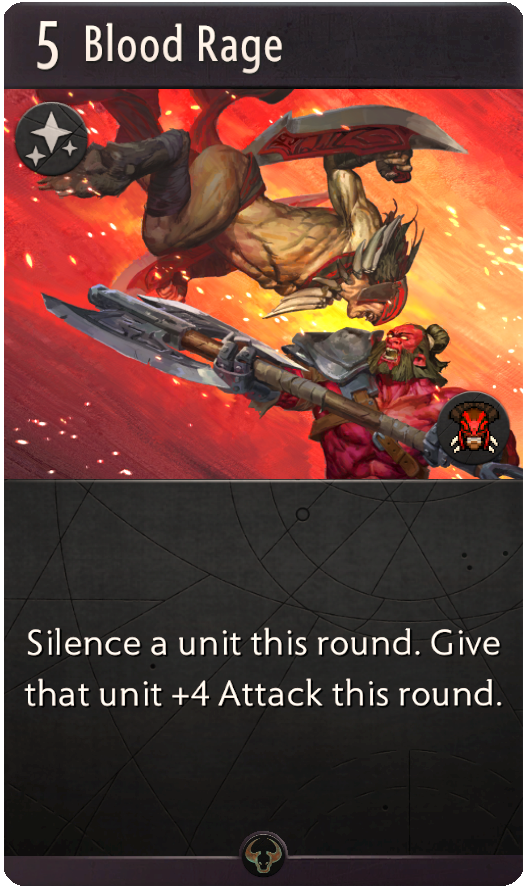
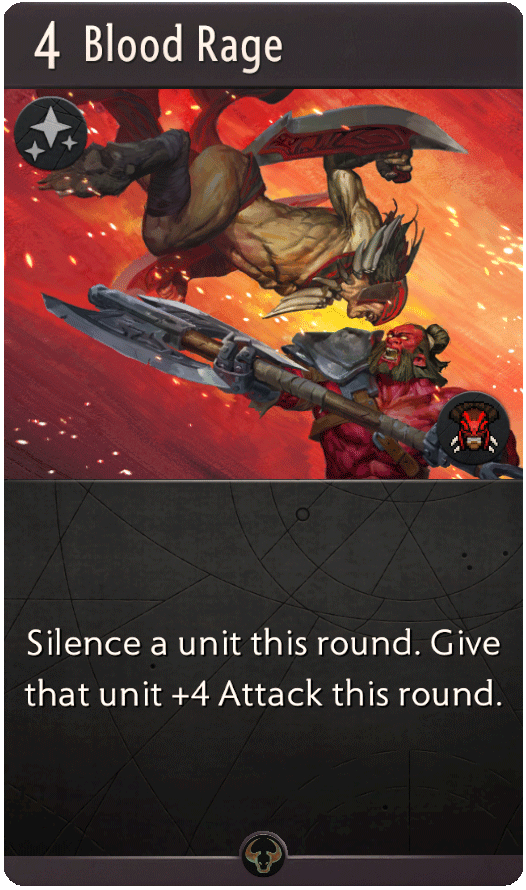
Fixed typos and updated descriptions/card arts in regards to the patch.

Changed region(s): [[0.0, 0.0, 1.0, 0.5461], [0.5475, 0.9404, 0.6388, 0.9708], [0.9734, 0.4854, 1.0, 0.5461]]

diff --git a/README.md b/README.md
@@ -44,7 +44,7 @@ I have tried to future proof the schema of the JSON manifest of changes by inclu
 - **GoldCost** : int : Cost of buying an item.
 - **Abilities** : array : An array of all abilities/effects for the Hero/Creep/Improvement/Item card. For creeps and improvements their **Text** has been parsed into an ability so it is easier to search for abilities.
   - **Name** : string : Name of the ability. For improvements/creeps the ability will be the name of the card + " : Effect" e.g. _Keenfolk Turret : Effect_. 
-  - **Type** : string : **Active/Continuous/Play/Death**
+  - **Type** : string : **Active/Continuous/Play/Death/Equip**
   - **Text** : string : The description of the effect. For improvement/creep/item abilities it will remove the prefix e.g. "_Active 1: Do something._" will become "_Do something._".
   - **Cooldown** : int : Active affect cooldown.
 - **ManaCost** : int : Mana cost for card.
